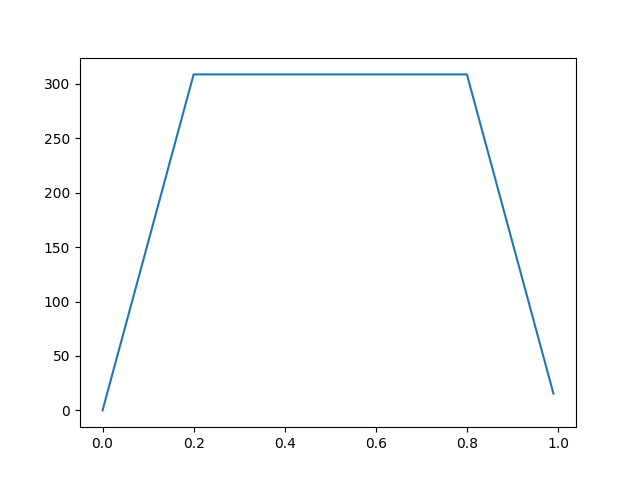
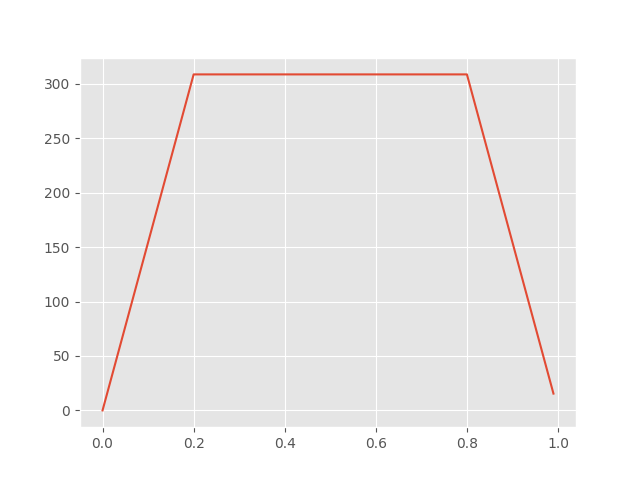
Change plot style

diff --git a/animation.py b/animation.py
@@ -3,6 +3,8 @@ import numpy as np
 import matplotlib.pyplot as plt
 import matplotlib.animation as animation
 
+plt.style.use('ggplot')
+
 
 class AnimationMaker():
     def __init__(self, theta1file, theta2file, l1, l2):
@@ -24,7 +26,7 @@ class AnimationMaker():
         self.theta2 = theta2[1]
 
     def figure(self):
-        self.fig, ax = plt.subplots(figsize=(10, 10))
+        self.fig, ax = plt.subplots(figsize=(8, 8))
 
         self.line_trajectory, = ax.plot(
             [], [], color='tab:blue', label='trajectory')
@@ -40,7 +42,7 @@ class AnimationMaker():
         ax.set_ylim(-maxlen, maxlen)
         ax.set_aspect('equal')
         # ax.legend(loc='lower left')
-        plt.subplots_adjust(left=0.08, right=0.97, bottom=0.04, top=0.97)
+        plt.subplots_adjust(left=0.1, right=0.97, bottom=0.04, top=0.97)
 
     def _update(self, i):
         theta1 = math.radians(self.theta1[i])
@@ -58,7 +60,7 @@ class AnimationMaker():
         self.line_l2.set_data([x1, x2], [y1, y2])
         self.line_trajectory.set_data(self.trajectory_x, self.trajectory_y)
 
-        plt.title('t = {} [s], (x, y) = ({:3.0f}, {:3.0f})'.format(
+        plt.title('t = {:3.2f} [s], (x, y) = ({:3.0f}, {:3.0f})'.format(
             i / len(self.time), x2, y2))
 
     def makeAnimation(self):
@@ -72,5 +74,5 @@ if __name__ == '__main__':
     ani = animationMaker.makeAnimation()
     ani.save('animation.gif', writer='pillow')
 
-    plt.plot(animationMaker.trajectory_x, animationMaker.trajectory_y)
-    plt.savefig('a.png')
+    # plt.plot(animationMaker.trajectory_x, animationMaker.trajectory_y)
+    plt.savefig('trajectory.png')

diff --git a/manipurator.py b/manipurator.py
@@ -2,6 +2,8 @@ import math
 import numpy as np
 import matplotlib.pyplot as plt
 
+plt.style.use('ggplot')
+
 
 class Manipurator():
     def __init__(self, l1, l2, d0=0):
